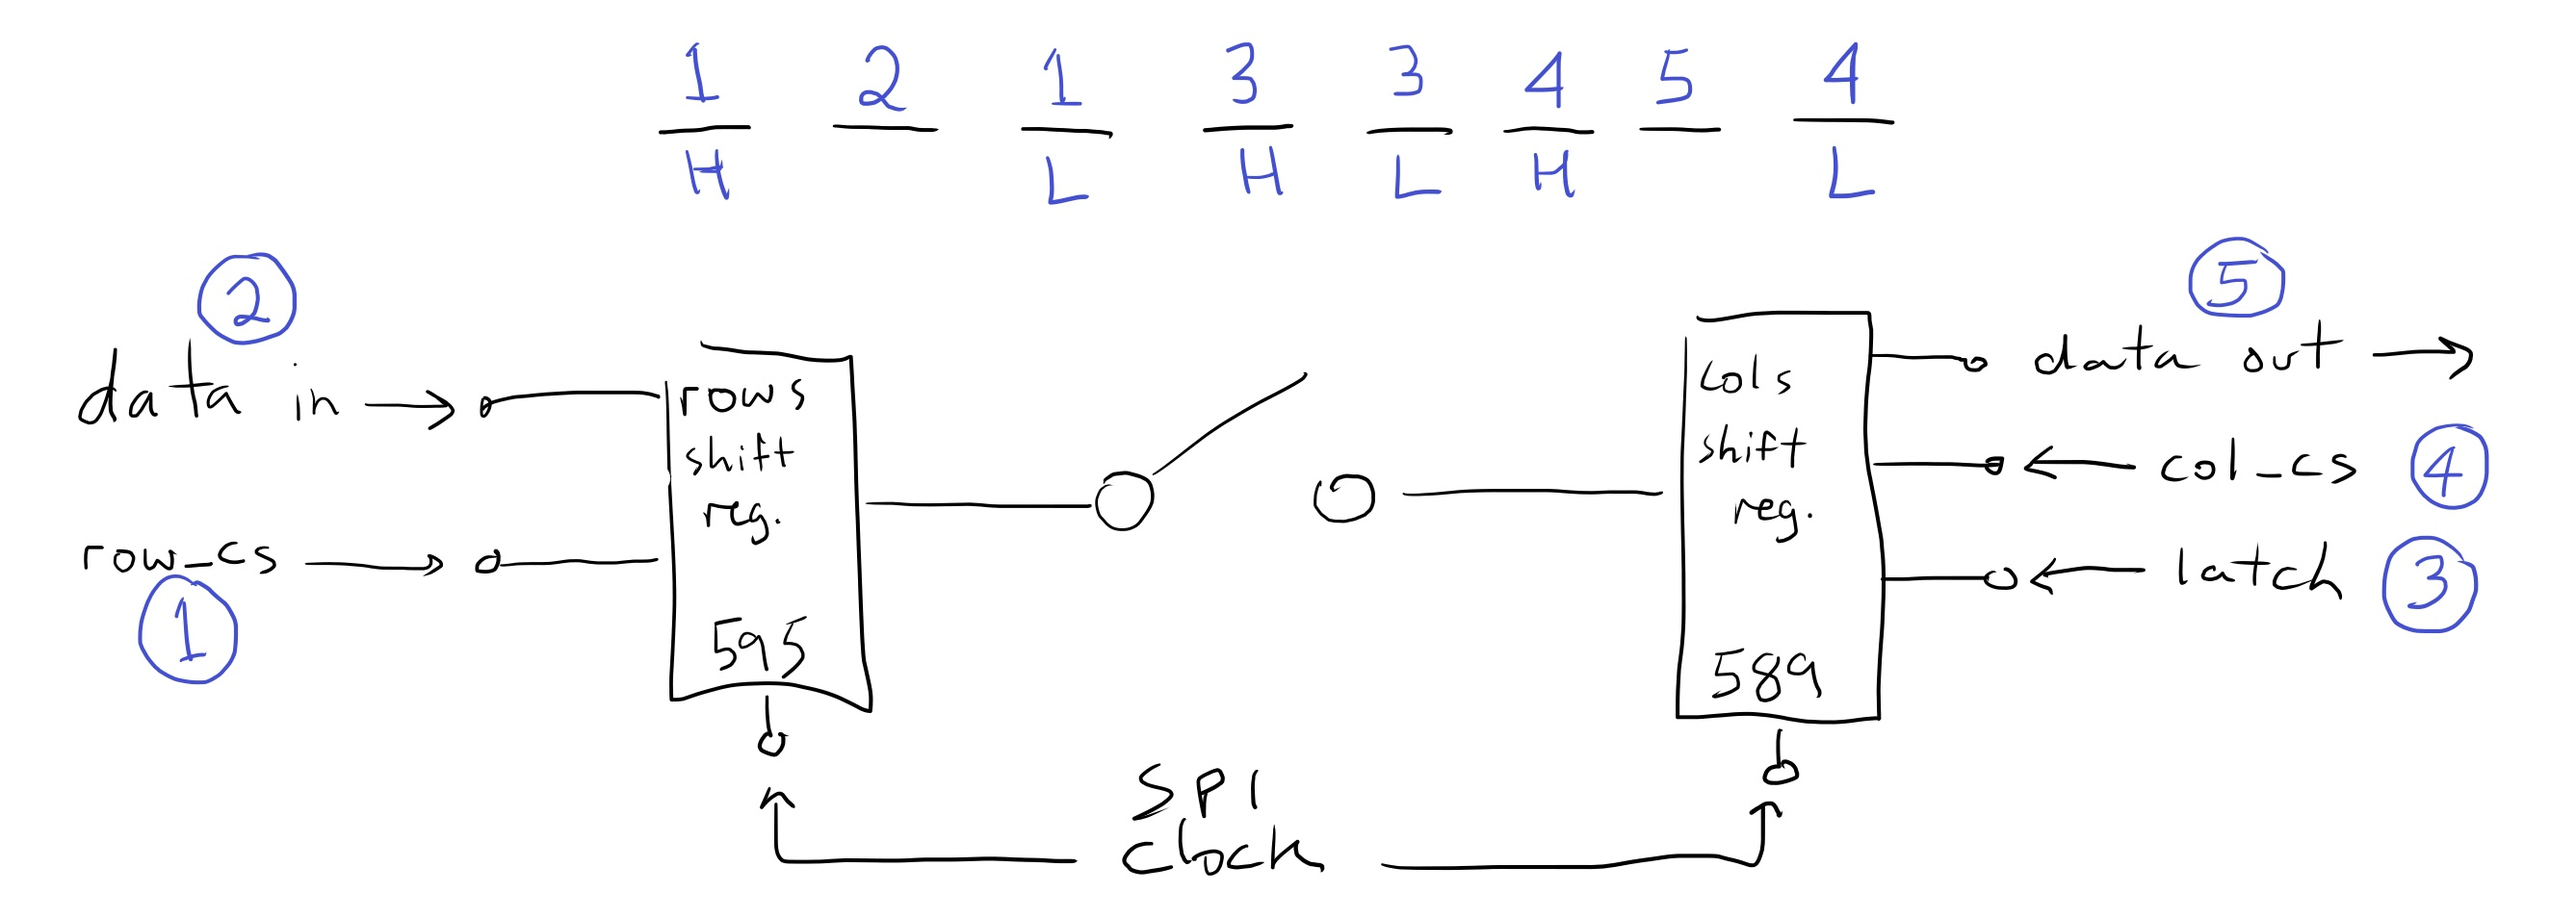
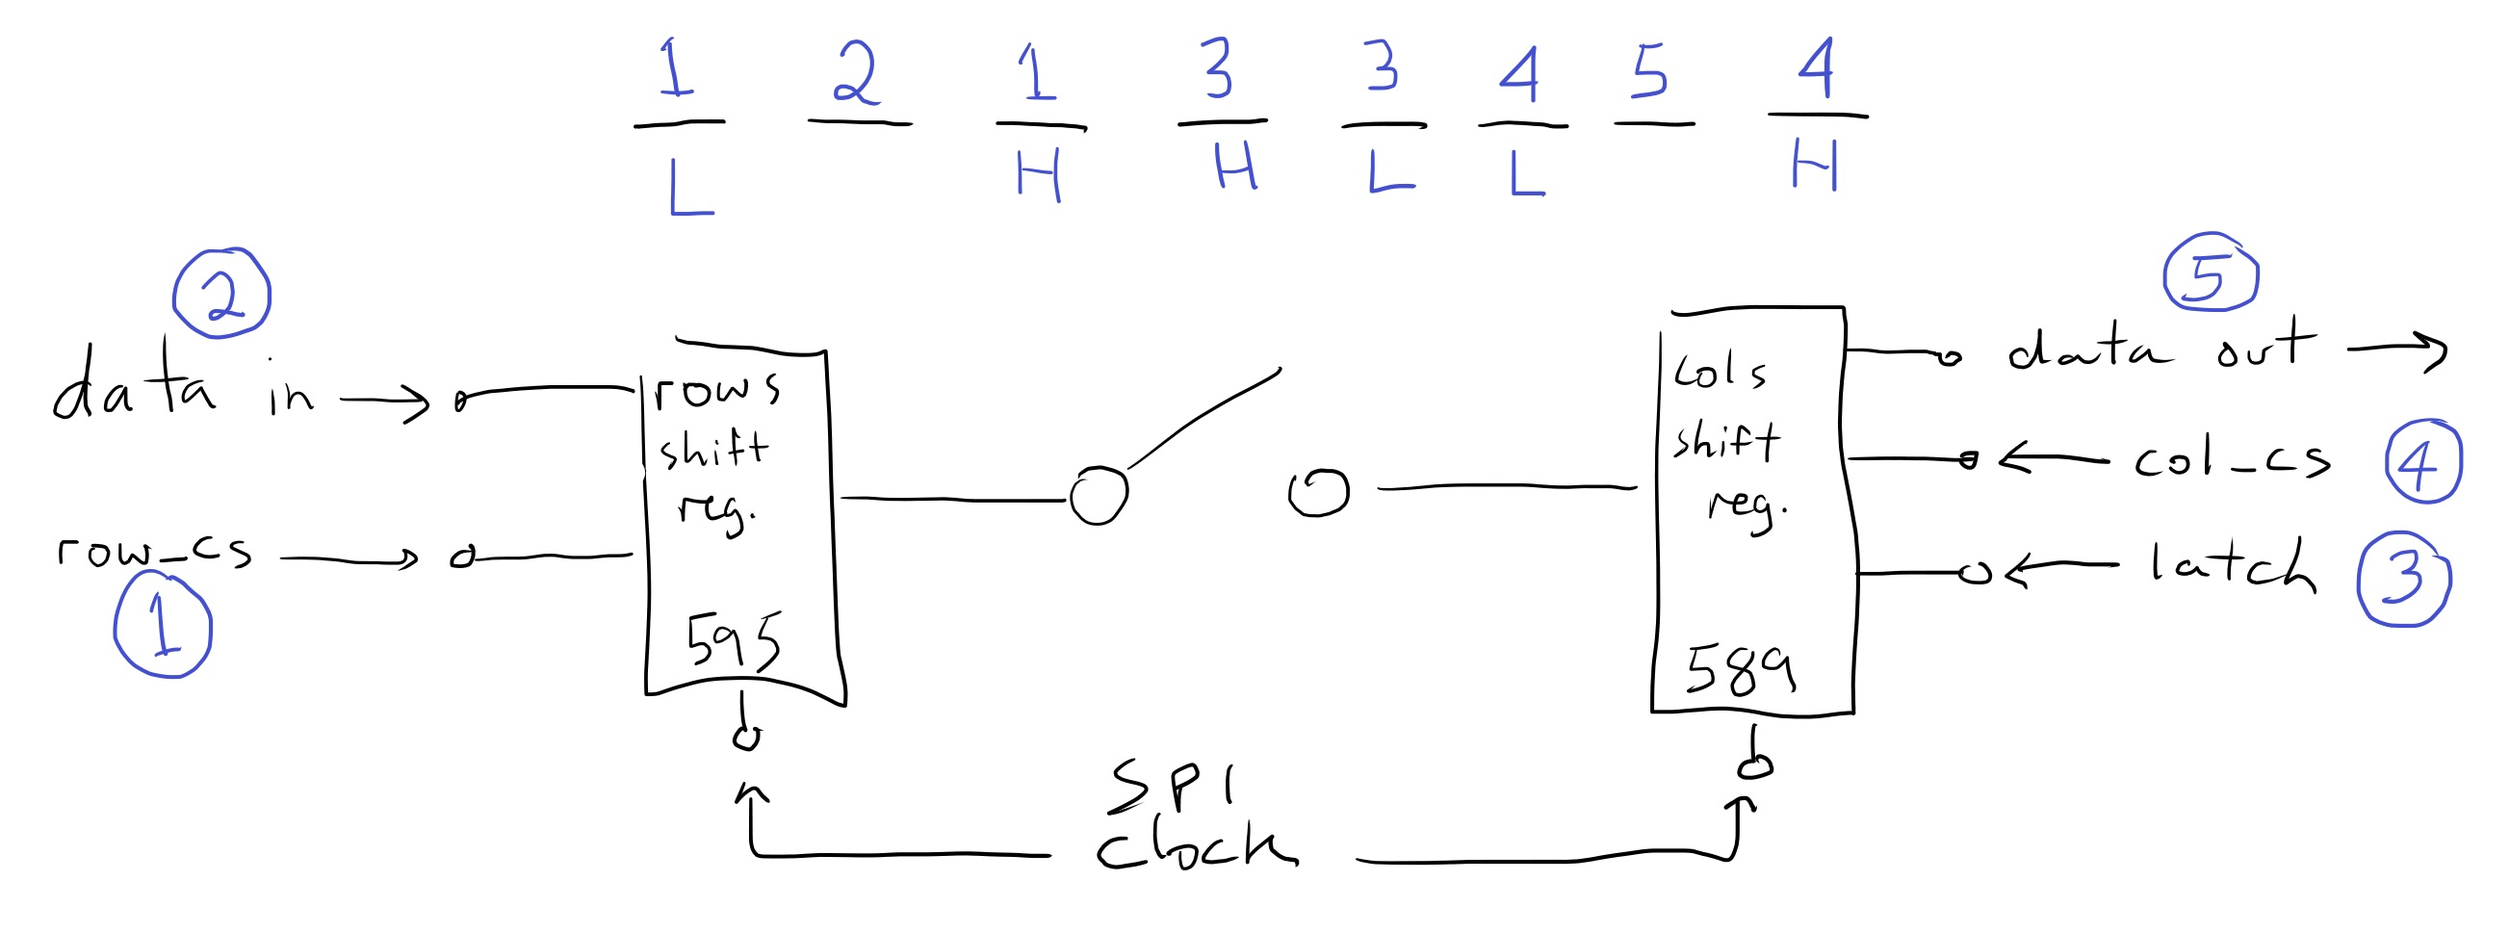
correcting error with hi/lo comments for cs pins

diff --git a/README.md b/README.md
@@ -100,14 +100,16 @@ Each shift register has 8 bits (_1 byte_) - the data pins are digital, 0 or 1 - 
 ![Shift register magic](/images/qmk-set-row-high.jpg)
 
 ### for each row pin
-1. Set `row_cs` HIGH; the rows register is now the active SPI device
+> **NOTE**: CS pins on registers are normally HIGH.  You set them LOW to activate them.
+
+1. Set `row_cs` LOW; the rows register is now the active SPI device
 2. Send the data packet telling the register which pin to set HIGH (`spi_transmit`)
-3. Set `row_cs` LOW; we are done with the rows register, so de-select it
+3. Set `row_cs` HIGH; we are done with the rows register, so de-select it
 4. Set the `latch` HIGH; the 589 register transfers current pin data from latch to register
 5. Set the `latch` LOW; register cannot do data transfer while latch is HIGH
-6. Set the `col_cs` HIGH - the register will start transferring data over SPI
+6. Set the `col_cs` LOW - the register will start transferring data over SPI
 7. Get the data packet that will tell us which col pin is HIGH (`spi_receive`)
-8. Set the `col_cs` LOW - we are done with the cols register, so de-select it
+8. Set the `col_cs` HIGH - we are done with the cols register, so de-select it
 
 ![Shift register flow](/images/qmk-register-flow.jpg)
 
